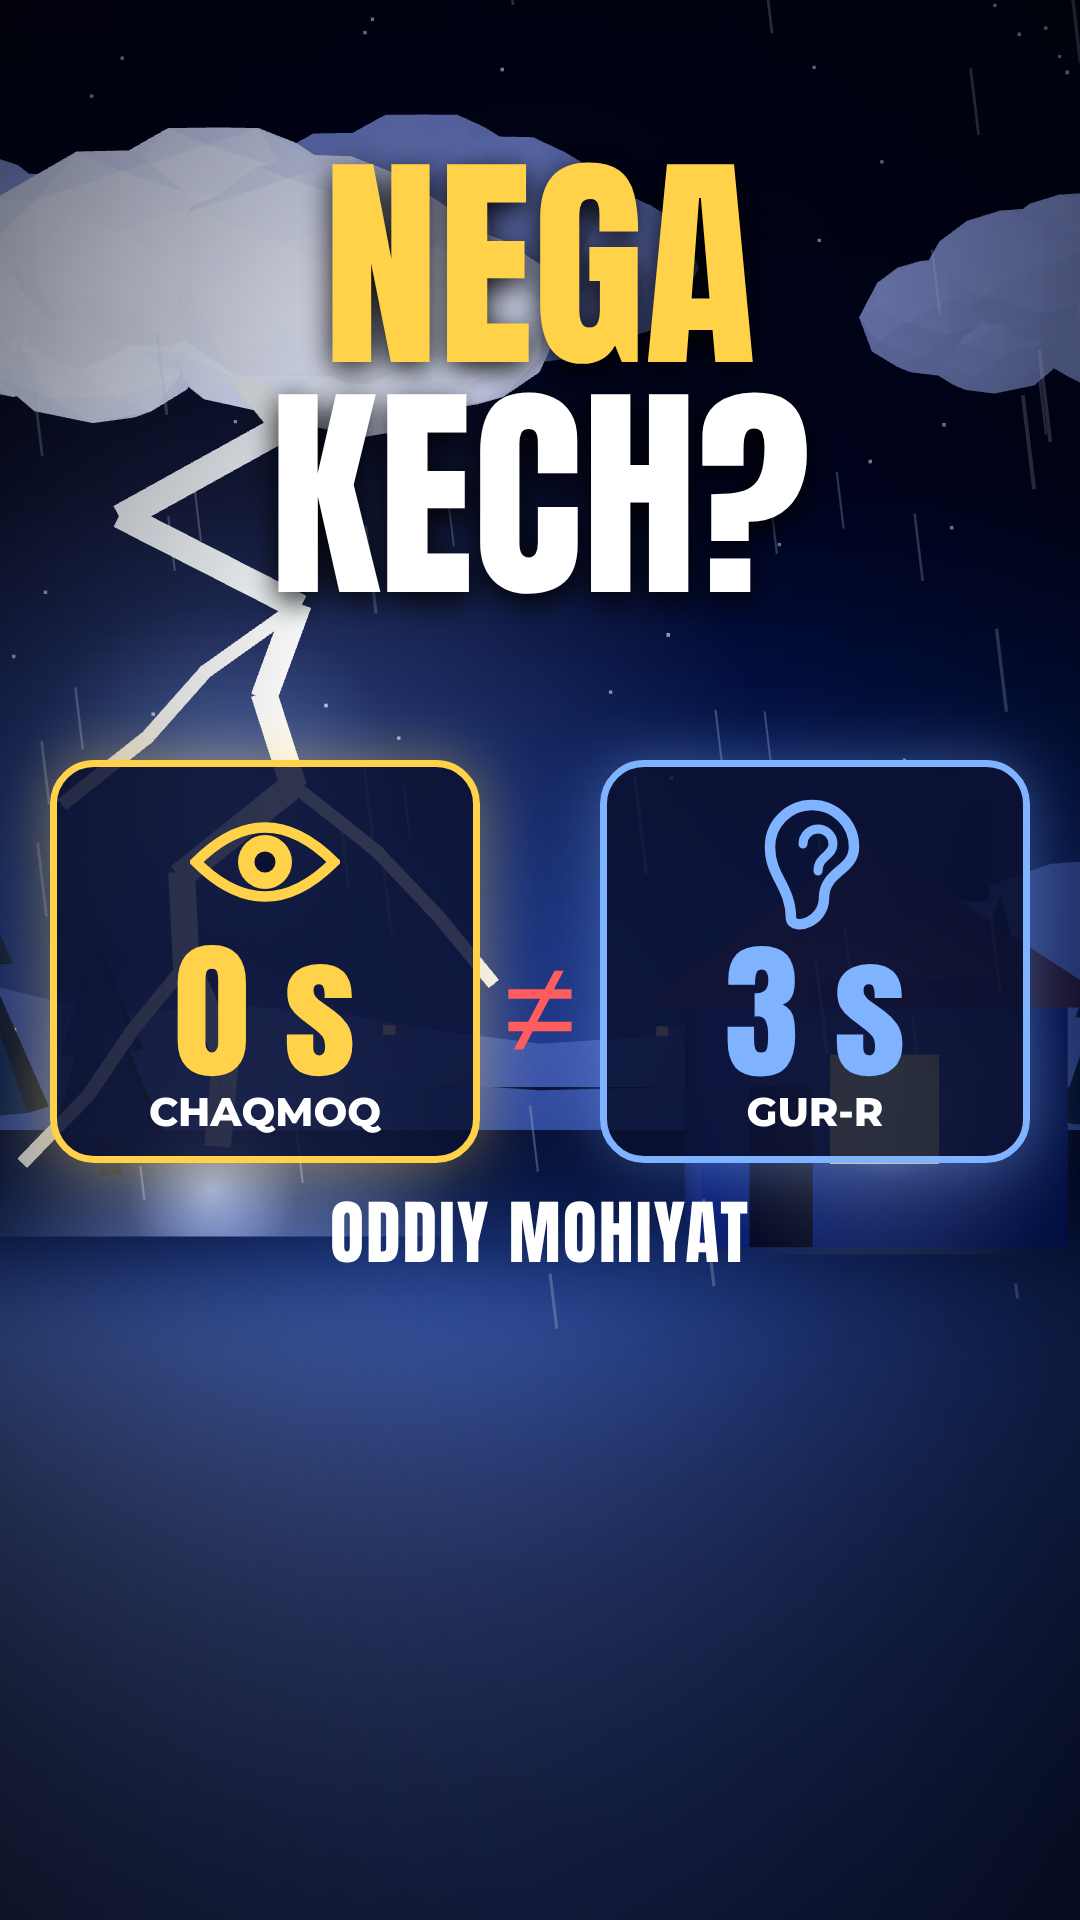
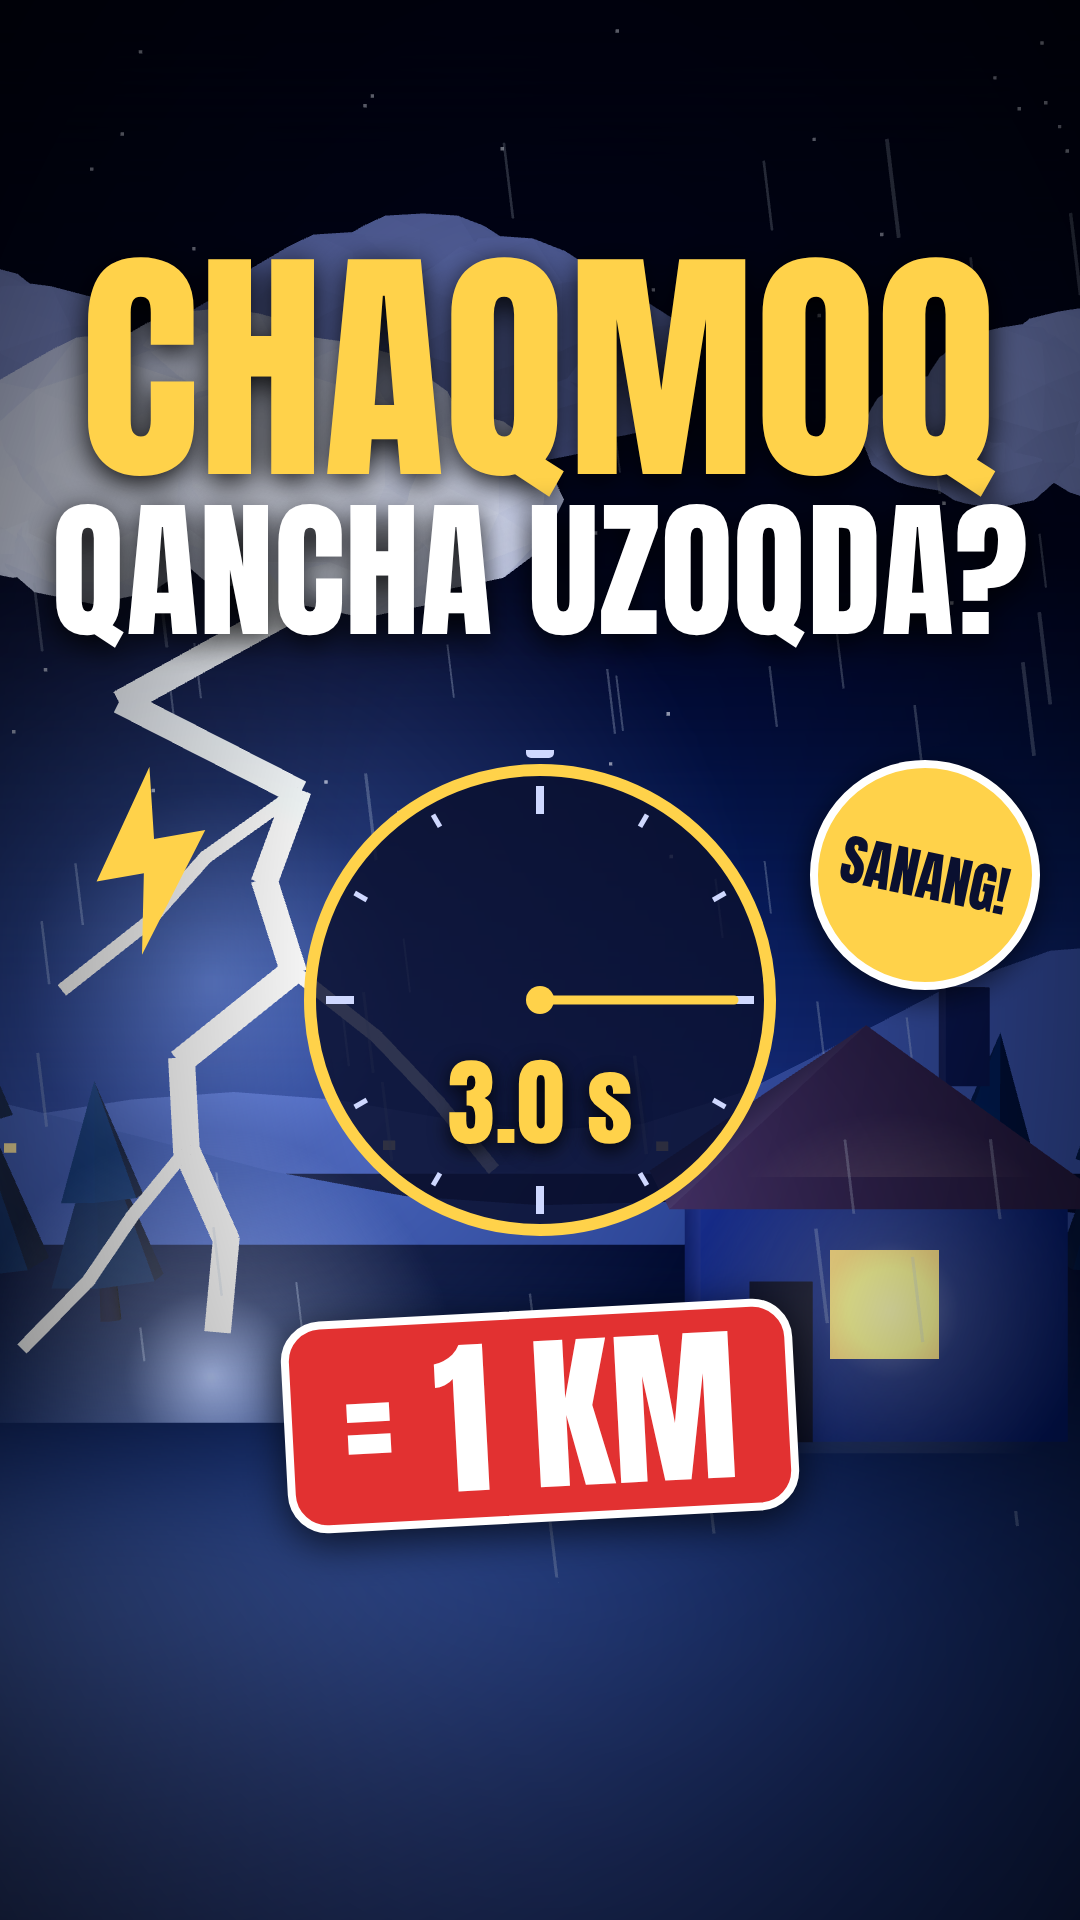
Обложка Thunder: «CHAQMOQ QANCHA UZOQDA?», секундомер 3 с = 1 км
Claude-Session: https://claude.ai/code/session_016ssCvhn7G15uPbYpYxzqv8

diff --git a/reels/src/ThunderPro.tsx b/reels/src/ThunderPro.tsx
@@ -644,3 +644,24 @@ export const ThunderProCover: React.FC = () => (
     <div style={{position: 'absolute', left: 0, width: W, top: 1180, textAlign: 'center', fontFamily: anton, fontSize: 70, color: '#fff', letterSpacing: 2}}>ODDIY MOHIYAT</div>
   </AbsoluteFill>
 );
+
+export const ThunderProCover2: React.FC = () => (
+  <AbsoluteFill style={{background: '#060a1d'}}>
+    <ThreeCanvas width={1080} height={1920} camera={{position: [0, 2.5, 23], fov: 42, near: 0.1, far: 200}}>
+      <Scene cfg={{flashes: [{t: -2, d: 6}], cam: {from: [0, 4.2, 23], to: [0, 4.2, 23], look: [0, 4.2, 0]}}} />
+    </ThreeCanvas>
+    <div style={{position: 'absolute', inset: 0, background: 'radial-gradient(ellipse at 50% 50%, rgba(0,0,0,0) 25%, rgba(0,0,0,.6) 100%)'}} />
+    <div style={{position: 'absolute', left: 0, right: 0, top: 250, textAlign: 'center', fontFamily: anton, color: '#fff', textShadow: '0 8px 30px rgba(0,0,0,.95)'}}>
+      <div style={{fontSize: 250, lineHeight: 0.95, color: GOLD}}>CHAQMOQ</div>
+      <div style={{fontSize: 150, lineHeight: 1.1}}>QANCHA UZOQDA?</div>
+    </div>
+    <Dial cx={540} cy={1000} r={230} value={3} running at={-30} />
+    <div style={{position: 'absolute', left: 0, width: W, top: 1310, textAlign: 'center'}}>
+      <span style={{display: 'inline-block', fontFamily: anton, fontSize: 170, color: '#fff', background: '#e23131', border: '8px solid #fff', borderRadius: 40, padding: '0 50px', lineHeight: 1.15, boxShadow: '0 10px 40px rgba(0,0,0,.7)', transform: 'rotate(-3deg)'}}>= 1 KM</span>
+    </div>
+    <div style={{position: 'absolute', right: 40, top: 760, width: 230, height: 230, borderRadius: 130, background: GOLD, display: 'flex', alignItems: 'center', justifyContent: 'center', transform: 'rotate(12deg)', border: '8px solid #fff', boxShadow: '0 10px 30px rgba(0,0,0,.6)'}}>
+      <div style={{fontFamily: anton, fontSize: 54, color: '#0a1030', textAlign: 'center', lineHeight: 1}}>SANANG!</div>
+    </div>
+    <div style={{position: 'absolute', left: 50, top: 760, transform: 'rotate(-10deg)'}}><BoltIcon s={200} /></div>
+  </AbsoluteFill>
+);

diff --git a/reels/src/Root.tsx b/reels/src/Root.tsx
@@ -10,12 +10,13 @@ import {Story, StoryCover, StoryCover2, STORY_FRAMES} from './Story';
 import {Anchor, AnchorCover, ANCHOR_FRAMES} from './Anchor';
 import {SubtitleTest} from './blocks/SubtitleTest';
 import {Thunder, ThunderCover, THUNDER_FRAMES} from './Thunder';
-import {ThunderPro, ThunderProCover, THUNDERPRO_FRAMES} from './ThunderPro';
+import {ThunderPro, ThunderProCover, ThunderProCover2, THUNDERPRO_FRAMES} from './ThunderPro';
 
 // Instagram Reels: 1080x1920, 30fps
 export const Root: React.FC = () => {
   return (
     <>
+    <Composition id="ThunderProCover2" component={ThunderProCover2} durationInFrames={1} fps={30} width={1080} height={1920} />
     <Composition id="ThunderPro" component={ThunderPro} durationInFrames={THUNDERPRO_FRAMES} fps={30} width={1080} height={1920} />
     <Composition id="ThunderProCover" component={ThunderProCover} durationInFrames={1} fps={30} width={1080} height={1920} />
     <Composition id="Thunder" component={Thunder} durationInFrames={THUNDER_FRAMES} fps={30} width={1080} height={1920} />
